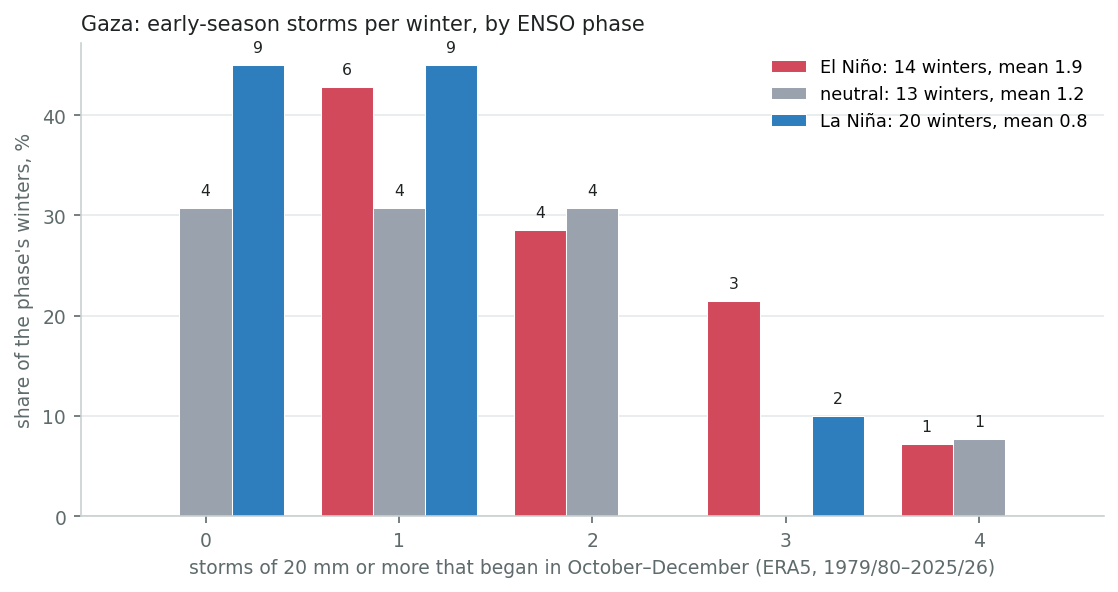
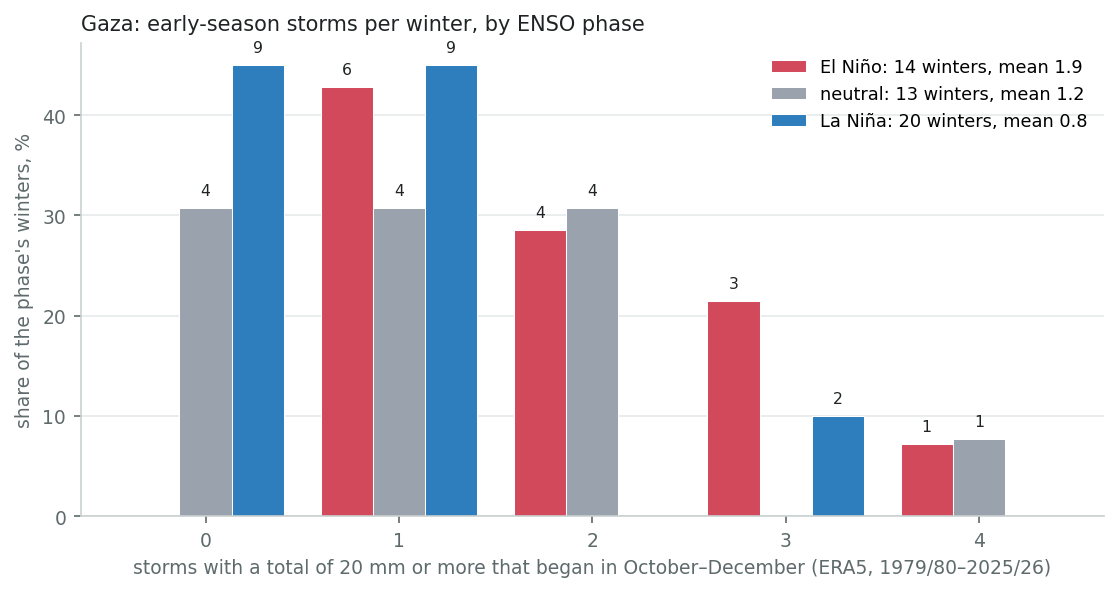
Early-season storms: fixes from review
- the IMERG check is made at the storm size that matches ERA5's 20 mm; for Gaza it shows no gap,
  and the page says so
- the lead says the extra storms come early (the January-April counts do not differ) rather than
  that this is the clearest signal; 'proportionally smaller' over the whole winter
- a visible paragraph on how far to trust it: chosen after about a hundred comparisons, wider
  before 1998 than since
- the pre-1979 comparison no longer counts a 1949/50 season that has no autumn in the record;
  a winter without a Niño3.4 value now stops the build
- the temperature sentence says warmest third of 1993-2016 winters and links both charts

Changed region(s): [[0.1216, 0.9426, 0.9428, 0.973]]

diff --git a/docs/enso/gaza-west-bank/index.html b/docs/enso/gaza-west-bank/index.html
@@ -69,7 +69,7 @@ h3.area{font-size:17px;margin:28px 0 8px;padding:2px 0 2px 10px;border-left:4px 
 <p class="small">Latest Niño3.4 in NOAA PSL's current series: +1.89 °C for August 2026 (three-month mean +1.73).</p><details class="note"><summary>Notes and method</summary><p class="small">The historical analysis on this page uses the series' pinned Niño3.4 (ERSST v5 basis, about 0.2 °C cooler than the current ERSST v6 series), and HadISST only where a record starts before 1950.</p></details>
 <p>NOAA's September outlook gives El Niño 100 per cent odds for every season through January–March 2027. It has the event peaking in October–December, with a 75 per cent chance of exceeding +2.5 °C on its relative Niño3.4 index, which no event since 1950 has done. The coming winter is likely to be a stronger El Niño than any the relationships below were fitted on.</p><details class="note"><summary>More detail</summary><p>The median relative index at the peak is +2.67 °C. It then weakens to about +1.8 °C by January–March. On that same relative index, the October–December and November–January medians are above every El Niño since 1950. All 22 models in the IRI plume stay “very strong” through December–February, and IRI's traditional Niño3.4 (on a different sea-surface temperature dataset) was +2.52 °C in August and about +3.0 °C in mid-September; the highest month in the series this page uses is +2.72 °C (November 2015). A positive Indian Ocean Dipole is developing and is expected to fade by early 2027.</p></details>
 <p>The rainfall forecasts agree on a shape, not only a sign: wet odds for October–December, weaker for November–January, and no wet signal for December–February, where NMME leans dry (40–60 per cent). That is the part of the season the El Niño signal has historically favoured (section 2), and the part where SEAS5 has skill. The forecasts also agree the winter will be warm, which makes snow on the West Bank hills less likely but does not remove cold nights.</p><details class="note"><summary>More detail</summary><p>In Gaza, the newborn hypothermia deaths of December 2024 happened on nights of about 9 °C. SEAS5 and the C3S multi-model mean lean towards a negative North Atlantic Oscillation in late winter. Most Levant studies find that pattern is not a wet one for Israel and the Occupied Palestinian Territory (Nissen et al. 2010; Sandler et al. 2024), and the forecast pressure anomaly over the Levant is near zero.</p></details>
-<p>ECMWF's October forecast (SEAS5, published on 5 October) is the first of the October issuances. It keeps the wet start: October–December is at about a 9-year wet return period over both Gaza and the West Bank, with high skill. Like for like, that is a little wetter than a month ago for Gaza (about 7 years) and less extreme for the West Bank (23 years). The rest of the winter, slightly dry or near normal in the September issuance, is now slightly wet, and February–April is wetter again; skill is moderate for November–January and December–February and low after. It also keeps the warm signal: ECMWF's charts give a 70–100 per cent chance that November–January and December–February are warmer than normal over the eastern Mediterranean (<a href="https://charts.ecmwf.int/products/seasonal_system5_standard_2mtm?area=EURO&amp;base_time=202610010000&amp;stats=terc-3&amp;valid_time=202611010000">ECMWF</a>). The other centres' October forecasts are not yet out, so the table below is still the September one, including its ECMWF row.</p>
+<p>ECMWF's October forecast (SEAS5, published on 5 October) is the first of the October issuances. It keeps the wet start: October–December is at about a 9-year wet return period over both Gaza and the West Bank, with high skill. Like for like, that is a little wetter than a month ago for Gaza (about 7 years) and less extreme for the West Bank (23 years). The rest of the winter, slightly dry or near normal in the September issuance, is now slightly wet, and February–April is wetter again; skill is moderate for November–January and December–February and low after. It also keeps the warm signal: ECMWF's charts give a 70–100 per cent chance that <a href="https://charts.ecmwf.int/products/seasonal_system5_standard_2mtm?area=EURO&amp;base_time=202610010000&amp;stats=terc-3&amp;valid_time=202611010000">November–January</a> and <a href="https://charts.ecmwf.int/products/seasonal_system5_standard_2mtm?area=EURO&amp;base_time=202610010000&amp;stats=terc-3&amp;valid_time=202612010000">December–February</a> fall in the warmest third of 1993–2016 winters over the eastern Mediterranean; part of that is the warming since those years. The other centres' October forecasts are not yet out, so the table below is still the September one, including its ECMWF row.</p>
 
 <div style="overflow-x:auto"><table><thead><tr><th>Forecast</th><th>Issued</th><th>Oct–Dec</th><th>Nov–Jan</th><th>Dec–Feb</th><th>Temperature</th></tr></thead><tbody>
 <tr><td><a href="https://charts.ecmwf.int/products/c3s_seasonal_spatial_mm_rain_3m?area=area11&amp;base_time=202609010000&amp;type=tsum&amp;valid_time=202610010000">C3S multi-system</a> (9 models)</td><td style="white-space:nowrap">Sep 2026</td><td>wet 50–60%</td><td>wet 40–50%</td><td>no signal</td><td>warm 60–100%</td></tr>
@@ -417,10 +417,11 @@ h3.area{font-size:17px;margin:28px 0 8px;padding:2px 0 2px 10px;border-left:4px 
 <h4 id="gaza-range-how-many-storms-a-winter-brings">How many storms a winter brings<a class="anchor" href="#gaza-range-how-many-storms-a-winter-brings" aria-hidden="true" tabindex="-1"></a></h4>
 <p>Over the 28 winters of IMERG (1998/99–2025/26), a Gaza winter brought on average 6 storms whose wettest day reached 10 mm (in most winters 4–8), 3 that reached 20 mm (1–4), and a storm of 50 mm or more, like Byron, in 50 per cent of winters. El Niño winters brought slightly more of the smaller storms (7 of 10 mm or more, against 5 in La Niña winters) but not more of the largest: 4 of 8 El Niño winters had a storm of 50 mm or more, against 6 of 14 La Niña winters. Last winter, with 7, 4 and 1, was among the more active.</p>
 <figure><img src="gaza/storm_tiers.png" alt="Rain storms per winter by size"><figcaption>A storm is a run of rainy days (1 mm or more), merged across lulls of up to two dry days, sized by its wettest day over Gaza (IMERG, area-weighted). <details class="note"><summary>More about this figure</summary><span>Byron, 8–17 December 2025, counts as one storm (rain from 8 December, the storm proper from 10 December). ERA5 is not used for the largest storms: its 25 km cells smooth them so much that it gives Byron a wettest day of 18 mm, which would not place it among the record's 14 largest storms.</span></details></figcaption></figure>
-<p>The clearest El Niño signal in the storm record is early in the season. In ERA5 since 1979/80, El Niño winters have brought 1–4 storms with a total of 20 mm or more before January (1.9 on average), against 0–4 in neutral winters (1.2) and 0–3 in La Niña winters (0.8): about twice as many as in the other winters (p &lt; 0.01). Every one of the 14 El Niño winters had at least one; 13 of the other 33 had none. IMERG's shorter record points the same way (2.5 against 1.6, p = 0.09). These are past ranges, not a forecast.</p>
+<p>El Niño's extra storms come early in the season. In ERA5 since 1979/80, El Niño winters have brought 1–4 storms with a total of 20 mm or more before January (1.9 on average), against 0–4 in neutral winters (1.2) and 0–3 in La Niña winters (0.8): about twice as many as in the other winters. From January to April the phases do not differ (2.9 against 2.4). Every one of the 14 El Niño winters had at least one before January; 13 of the other 33 had none.</p>
+<p><strong>How far to trust it.</strong> The window and the threshold were chosen after about a hundred combinations were compared, so the p &lt; 0.01 of this one overstates the evidence. The gap is wider before 1998 (2.7 against 1.0) than since (1.4 against 0.9, within chance on its own, p = 0.10). IMERG's 28 winters, at the matched size of about 35 mm, show no gap (1.1 against 1.0). These are past ranges, not a forecast.</p>
 <figure><img src="gaza/storms_early.png" alt="Winters by number of early-season storms, by ENSO phase"><figcaption>Winters by the number of storms that began in October–December with a total of 20 mm or more over Gaza (ERA5, 1979/80–2025/26), as a share of each phase's winters; the number of winters is on each bar.</figcaption></figure>
-<p class="small">ERA5 averages rain over 25 km cells: 20 mm there is about 35 mm in IMERG's terms.</p><details class="note"><summary>Notes and method</summary><p class="small">The window and the threshold were chosen after comparing several: the gap is there at every total tried from 10 to 50 mm (p from 0.001 to 0.031) and in both halves of the record (1979/80–1997/98: 2.7 against 1.0; 1998/99–2025/26: 1.4 against 0.9). Before 1979/80 there was none (1.3 against 1.2 from 1949/50), like the rest of the El Niño link (section 2).</p></details>
-<p>Over the whole winter the gap is smaller. El Niño winters have brought 2–7 storms of 25 mm or more (4.6 on average, IMERG), against 2–6 in neutral winters (4.5) and 1–5 in La Niña winters (3.3). On IMERG's eight El Niño winters the difference from the other 20 is within chance (p = 0.17); in ERA5 since 1979/80, with 14 El Niño winters and thresholds matched to IMERG's, the gap is 1.6 storms a winter and is unlikely to be chance (p &lt; 0.01). The bigger storms do not follow the phase: 50 mm or more came 0–2 times in an El Niño winter and 0–3 in the others, and a storm of 100 mm or more came in 3 of 8 El Niño winters and 6 of 20 others. These are past ranges, not a forecast.</p>
+<p class="small">ERA5 averages rain over 25 km cells: 20 mm there is about 35 mm in IMERG's terms.</p><details class="note"><summary>Notes and method</summary><p class="small">At the other totals tried from 10 to 50 mm the full-record gap has p from 0.001 to 0.031. IMERG at 20 mm, a smaller class of storm: 2.5 against 1.6 (p = 0.09). Before 1979/80 there was no gap (1.3 against 1.3 from 1950/51), like the rest of the El Niño link (section 2).</p></details>
+<p>Over the whole winter the difference is proportionally smaller. El Niño winters have brought 2–7 storms of 25 mm or more (4.6 on average, IMERG), against 2–6 in neutral winters (4.5) and 1–5 in La Niña winters (3.3). On IMERG's eight El Niño winters the difference from the other 20 is within chance (p = 0.17); in ERA5 since 1979/80, with 14 El Niño winters and thresholds matched to IMERG's, the gap is 1.6 storms a winter and is unlikely to be chance (p &lt; 0.01). The bigger storms do not follow the phase: 50 mm or more came 0–2 times in an El Niño winter and 0–3 in the others, and a storm of 100 mm or more came in 3 of 8 El Niño winters and 6 of 20 others. These are past ranges, not a forecast.</p>
 <div class="tscroll"><table><thead><tr><th>Storms per winter with a total of</th><th class="num">El Niño<br><span class="small">8 winters</span></th><th class="num">Neutral<br><span class="small">6 winters</span></th><th class="num">La Niña<br><span class="small">14 winters</span></th><th class="num">El Niño against the rest<br><span class="small">IMERG · ERA5</span></th></tr></thead><tbody>
 <tr><td>25 mm or more</td><td class="num">2–7 <span class="small">(mean 4.6)</span></td><td class="num">2–6 <span class="small">(mean 4.5)</span></td><td class="num">1–5 <span class="small">(mean 3.3)</span></td><td class="num">p = 0.17 · p &lt; 0.01</td></tr>
 <tr><td>50 mm or more</td><td class="num">0–2 <span class="small">(mean 1.4)</span></td><td class="num">1–3 <span class="small">(mean 2.2)</span></td><td class="num">0–3 <span class="small">(mean 1.1)</span></td><td class="num">p = 0.96 · p = 0.15</td></tr>
@@ -512,7 +513,7 @@ h3.area{font-size:17px;margin:28px 0 8px;padding:2px 0 2px 10px;border-left:4px 
 <tr><td>50 mm or more</td><td class="num">9</td><td class="num">3</td><td class="num" style="white-space:nowrap">800–21,000 <span class="small">(2)</span></td><td class="num">1</td><td class="num">1</td><td class="num" style="white-space:nowrap">235,000 <span class="small">(1)</span></td></tr>
 </tbody></table></div>
 <p class="small">Storms over Gaza in IMERG, as defined above.</p><details class="note"><summary>Notes and method</summary><p class="small">“With a reported impact”: any entry in the event catalogue, with or without a count, overlaps the storm (from the day before the entry starts to the day it ends). “People counted”: the range across events with a dated count, sized by the wettest day in the event's own dates, with the number of counts in brackets. Counts of assistance delivered, with no rain date, are left out. The event of 12–16 January 2026 (19,200 people) is not in the size tiers above: IMERG has 1.5 mm on its wettest day and ERA5 12 mm, so IMERG missed most of its rain. The one count of 10–20 mm before October 2023 is from January 2020; its date is approximate and its wettest day, at 20 mm, sits on the boundary.</p></details>
-<figure><img src="gaza/event_hazards.png" alt="People counted per event against ERA5 rain over the event's dates"><figcaption>Counts: OCHA, UNRWA and UNICEF reports before October 2023; since, counts published by OCHA, mostly from the Site Management Cluster and the Shelter Cluster. <details class="note"><summary>More about this figure</summary><span>Each dot is one event with a dated count, against ERA5 rain over Gaza from the day before the event to its last day; faded dots are events after December. Top: storms of that size before January in El Niño and other winters, a past range and not a forecast. ERA5 averages rain over 25 km cells and flattens the largest storms; the table below gives IMERG beside it.</span></details></figcaption></figure>
+<figure><img src="gaza/event_hazards.png" alt="People counted per event against ERA5 rain over the event's dates"><figcaption>Counts: OCHA, UNRWA and UNICEF reports before October 2023; since, counts published by OCHA, mostly from the Site Management Cluster and the Shelter Cluster. <details class="note"><summary>More about this figure</summary><span>Each dot is one event with a dated count, against ERA5 rain over Gaza from the day before the event to its last day; faded dots are events after December. Top: storms of that size before January in El Niño and other winters, a past range and not a forecast. ERA5 averages rain over 25 km cells: it flattens the largest storms and can differ severalfold from IMERG on a single storm; the table below gives both.</span></details></figcaption></figure>
 <div style="overflow-x:auto"><table><thead><tr><th>Dates</th><th>Hazard</th><th class="num">Rain over the event<br><span class="small">IMERG · ERA5</span></th><th class="num">People counted</th><th>What the count is</th><th>Source</th></tr></thead><tbody>
 <tr><td style="white-space:nowrap">18–19 Jan 2010</td><td>rain</td><td class="num" style="white-space:nowrap">114 · 32 mm</td><td class="num" style="white-space:nowrap">800</td><td class="small">residents evacuated in the Wadi Gaza flood</td><td class="small" style="white-space:nowrap"><a href="https://www.ochaopt.org/sites/default/files/ocha_opt_the_humanitarian_monitor_2010_01_31_english.pdf">OCHA Humanitarian Monitor, Jan 2010</a></td></tr>
 <tr><td style="white-space:nowrap">7–10 Jan 2013</td><td>rain, wind</td><td class="num" style="white-space:nowrap">62 · 55 mm</td><td class="num" style="white-space:nowrap">about 110</td><td class="small">20 families temporarily displaced</td><td class="small" style="white-space:nowrap"><a href="https://www.un.org/unispal/document/auto-insert-194567/">OCHA SitRep, 16 Jan 2013</a></td></tr>
@@ -555,10 +556,11 @@ h3.area{font-size:17px;margin:28px 0 8px;padding:2px 0 2px 10px;border-left:4px 
 <h4 id="west-bank-range-how-many-storms-a-winter-brings">How many storms a winter brings<a class="anchor" href="#west-bank-range-how-many-storms-a-winter-brings" aria-hidden="true" tabindex="-1"></a></h4>
 <p>Over the 28 winters of IMERG (1998/99–2025/26), a West Bank winter brought on average 6 storms whose wettest day reached 10 mm (in most winters 4–8), 3 that reached 20 mm (2–5), and a storm of 50 mm or more in 29 per cent of winters. El Niño winters brought slightly more of the smaller storms (7 of 10 mm or more, against 6 in La Niña winters) but not more of the largest: 1 of 8 El Niño winters had a storm of 50 mm or more, against 5 of 14 La Niña winters. Last winter, with 8, 7 and 2, was among the more active.</p>
 <figure><img src="west-bank/storm_tiers.png" alt="Rain storms per winter by size"><figcaption>A storm is a run of rainy days (1 mm or more), merged across lulls of up to two dry days, sized by its wettest day over the West Bank (IMERG, area-weighted). </figcaption></figure>
-<p>The clearest El Niño signal in the storm record is early in the season. In ERA5 since 1979/80, El Niño winters have brought 2–4 storms with a total of 20 mm or more before January (2.8 on average), against 0–5 in neutral winters (2.0) and 0–3 in La Niña winters (1.4): 1.7 times as many as in the other winters (p &lt; 0.01). Every one of the 14 El Niño winters had at least two; 15 of the other 33 had fewer. IMERG's shorter record points the same way (3.2 against 2.1, p = 0.02). These are past ranges, not a forecast.</p>
+<p>El Niño's extra storms come early in the season. In ERA5 since 1979/80, El Niño winters have brought 2–4 storms with a total of 20 mm or more before January (2.8 on average), against 0–5 in neutral winters (2.0) and 0–3 in La Niña winters (1.4): 1.7 times as many as in the other winters. From January to April the phases do not differ (3.6 against 3.2). Every one of the 14 El Niño winters had at least two before January; 15 of the other 33 had fewer.</p>
+<p><strong>How far to trust it.</strong> The window and the threshold were chosen after about a hundred combinations were compared, so the p &lt; 0.01 of this one overstates the evidence. The gap is wider before 1998 (3.2 against 1.8) than since (2.5 against 1.6, within chance on its own, p = 0.06). IMERG's 28 winters, at the matched size of about 30 mm, point the same way (2.4 against 1.6, p = 0.03). These are past ranges, not a forecast.</p>
 <figure><img src="west-bank/storms_early.png" alt="Winters by number of early-season storms, by ENSO phase"><figcaption>Winters by the number of storms that began in October–December with a total of 20 mm or more over the West Bank (ERA5, 1979/80–2025/26), as a share of each phase's winters; the number of winters is on each bar.</figcaption></figure>
-<p class="small">ERA5 averages rain over 25 km cells: 20 mm there is about 30 mm in IMERG's terms.</p><details class="note"><summary>Notes and method</summary><p class="small">The window and the threshold were chosen after comparing several: the gap is there at every total tried from 10 to 50 mm (p from 0.003 to 0.007) and in both halves of the record (1979/80–1997/98: 3.2 against 1.8; 1998/99–2025/26: 2.5 against 1.6). Before 1979/80 there was none (1.7 against 1.7 from 1949/50), like the rest of the El Niño link (section 2).</p></details>
-<p>Over the whole winter the gap is smaller. El Niño winters have brought 3–6 storms of 25 mm or more (5.5 on average, IMERG), against 2–6 in neutral winters (4.2) and 2–8 in La Niña winters (4.6). On IMERG's eight El Niño winters the difference from the other 20 is suggestive, with three sizes tested (p = 0.03); in ERA5 since 1979/80, with 14 El Niño winters and thresholds matched to IMERG's, the gap is 1.4 storms a winter and is suggestive, with three sizes tested (p = 0.04). The bigger storms do not follow the phase: 50 mm or more came 1–4 times in an El Niño winter and 1–6 in the others, and a storm of 100 mm or more came in 5 of 8 El Niño winters and 10 of 20 others. These are past ranges, not a forecast.</p>
+<p class="small">ERA5 averages rain over 25 km cells: 20 mm there is about 30 mm in IMERG's terms.</p><details class="note"><summary>Notes and method</summary><p class="small">At the other totals tried from 10 to 50 mm the full-record gap has p from 0.003 to 0.007. IMERG at 20 mm, a smaller class of storm: 3.2 against 2.1 (p = 0.02). Before 1979/80 there was no gap (1.7 against 1.7 from 1950/51), like the rest of the El Niño link (section 2).</p></details>
+<p>Over the whole winter the difference is proportionally smaller. El Niño winters have brought 3–6 storms of 25 mm or more (5.5 on average, IMERG), against 2–6 in neutral winters (4.2) and 2–8 in La Niña winters (4.6). On IMERG's eight El Niño winters the difference from the other 20 is suggestive, with three sizes tested (p = 0.03); in ERA5 since 1979/80, with 14 El Niño winters and thresholds matched to IMERG's, the gap is 1.4 storms a winter and is suggestive, with three sizes tested (p = 0.04). The bigger storms do not follow the phase: 50 mm or more came 1–4 times in an El Niño winter and 1–6 in the others, and a storm of 100 mm or more came in 5 of 8 El Niño winters and 10 of 20 others. These are past ranges, not a forecast.</p>
 <div class="tscroll"><table><thead><tr><th>Storms per winter with a total of</th><th class="num">El Niño<br><span class="small">8 winters</span></th><th class="num">Neutral<br><span class="small">6 winters</span></th><th class="num">La Niña<br><span class="small">14 winters</span></th><th class="num">El Niño against the rest<br><span class="small">IMERG · ERA5</span></th></tr></thead><tbody>
 <tr><td>25 mm or more</td><td class="num">3–6 <span class="small">(mean 5.5)</span></td><td class="num">2–6 <span class="small">(mean 4.2)</span></td><td class="num">2–8 <span class="small">(mean 4.6)</span></td><td class="num">p = 0.03 · p = 0.04</td></tr>
 <tr><td>50 mm or more</td><td class="num">1–4 <span class="small">(mean 2.8)</span></td><td class="num">1–5 <span class="small">(mean 3.0)</span></td><td class="num">1–6 <span class="small">(mean 2.1)</span></td><td class="num">p = 0.38 · p = 0.16</td></tr>

diff --git a/levant_deep_dive.py b/levant_deep_dive.py
@@ -987,22 +987,28 @@ def storm_stats(imerg: pd.Series, era5: pd.Series, djf: pd.Series) -> dict:
                 by_total.append(dict(src=name, tier=t, group=label, n=int(m.sum()), lo=int(v.min()), hi=int(v.max()), mean=float(v.mean()),
                                      med=float(v.median()), any=int((v >= 1).sum()), p=p_, first=int(c.index.min())))
     # early-season storms by phase: ERA5 since the link switched on (the longer record), IMERG as the check
-    def early_counts(e, lo, hi, thr=EARLY_TOTAL):
-        x = e[pd.DatetimeIndex(e.start).month.isin(EARLY_MONTHS) & (e.total >= thr)]
+    def early_counts(e, lo, hi, thr=EARLY_TOTAL, months=EARLY_MONTHS):
+        x = e[pd.DatetimeIndex(e.start).month.isin(months) & (e.total >= thr)]
         return x.groupby("sy").size().reindex(range(lo, hi + 1), fill_value=0)
 
     def by_phase(c):
+        assert djf.reindex(c.index).notna().all(), "a winter without a Niño3.4 value would pass as neutral"
         ph = pd.Series(phase_of(djf.reindex(c.index)), index=c.index)
         g = {k: c[ph == k] for k in ("El Niño", "Neutral", "La Niña")} | {"other": c[ph != "El Niño"]}
         return dict(p=float(stats.mannwhitneyu(g["El Niño"], g["other"], alternative="two-sided").pvalue),
                     **{k: dict(n=len(v), lo=int(v.min()), hi=int(v.max()), mean=float(v.mean()),
                                dist={int(a): int(b) for a, b in v.value_counts().sort_index().items()}) for k, v in g.items()})
     a_, b_ = (x[pd.DatetimeIndex(x.start).month.isin(EARLY_MONTHS) & (x.sy >= 1998) & (x.sy <= 2025)] for x in (ee, ei))
+    n_match = int((a_.total >= EARLY_TOTAL).sum())
+    assert 0 < n_match <= len(b_), "no IMERG total gives the same number of early storms as ERA5"
+    eq = float(np.sort(b_.total.values)[::-1][n_match - 1])                # the IMERG total with as many early storms as ERA5 at its threshold
+    b0 = max(int(ee.sy.min()) + 1, int(djf.dropna().index.min()))         # the first season with an October in the record and a phase
+    late = [m for m in WET if m not in EARLY_MONTHS]
     early = dict(thr=EARLY_TOTAL, lo=SPLIT, hi=2025, era5=by_phase(early_counts(ee, SPLIT, 2025)), imerg=by_phase(early_counts(ei, 1998, 2025)),
+                 imerg_matched=by_phase(early_counts(ei, 1998, 2025, eq)), late=by_phase(early_counts(ee, SPLIT, 2025, months=late)),
                  halves=[(lo, hi, by_phase(early_counts(ee, lo, hi))) for lo, hi in ((SPLIT, 1997), (1998, 2025))],
-                 before=(int(ee.sy.min()), by_phase(early_counts(ee, int(ee.sy.min()), SPLIT - 1))),
-                 p_other={t: by_phase(early_counts(ee, SPLIT, 2025, t))["p"] for t in (10, 25, 30, 50)},
-                 imerg_equiv=float(np.sort(b_.total.values)[::-1][int((a_.total >= EARLY_TOTAL).sum()) - 1]))
+                 before=(b0, by_phase(early_counts(ee, b0, SPLIT - 1))),
+                 p_other={t: by_phase(early_counts(ee, SPLIT, 2025, t))["p"] for t in (10, 25, 30, 50)}, imerg_equiv=eq)
     return dict(ei=ei, ee=ee, thr_e=thr_e, ci=ci, ce=ce, rows=rows, first=first, by_total=by_total, thr_t=thr_t, cti=cti, early=early)
 
 
@@ -1666,7 +1672,7 @@ def fig_event_hazards(wi: dict, st: dict, out: Path) -> None:
     ax.vlines(thr, 10, 6e6, color="#6f7b7c", lw=1.3, zorder=1)
     ax.axhspan(6e5, 6e7, color="#BFD9EE", alpha=0.45, lw=0, zorder=0); ax.axhline(6e5, color="#6f7b7c", lw=0.8, zorder=1)
     xl = x0 + 0.012 * (x1 - x0); W = x1 - x0
-    ax.text(xl, 3.4e7, f"Storms of {thr} mm or more before January, per winter (ERA5, {_yr(ea['lo'])}–{_yr(ea['hi'])})", ha="left", va="center",
+    ax.text(xl, 3.4e7, f"Storms with a total of {thr} mm or more before January, per winter (ERA5, {_yr(ea['lo'])}–{_yr(ea['hi'])})", ha="left", va="center",
             fontsize=8, color=SRC_COL["GPCC"])
     ax.text(xl, 1.9e7, "every rain spell of that size that began in October–December, damaging or not; a past range, not a forecast", ha="left",
             va="center", fontsize=6.8, color=C_MUTED)
@@ -1769,7 +1775,8 @@ def fig_storms_early(st: dict, out: Path) -> None:
             if d.get(k, 0):
                 ax.text(x_, h_ + 1.0, str(d[k]), ha="center", va="bottom", fontsize=7.5, color=C_TEXT)
     ax.set_xticks(range(kmax + 1), [str(k) for k in range(kmax + 1)])
-    ax.set_xlabel(f"storms of {ea['thr']} mm or more that began in October–December (ERA5, {_yr(ea['lo'])}–{_yr(ea['hi'])})", fontsize=9, color=C_MUTED)
+    ax.set_xlabel(f"storms with a total of {ea['thr']} mm or more that began in October–December (ERA5, {_yr(ea['lo'])}–{_yr(ea['hi'])})", fontsize=9,
+                  color=C_MUTED)
     ax.set_ylabel("share of the phase's winters, %", fontsize=9, color=C_MUTED)
     ax.set_title(f"{A.name}: early-season storms per winter, by ENSO phase", fontsize=10, color=C_TEXT, loc="left")
     ax.legend(frameon=False, fontsize=8.5, loc="upper right")
@@ -2059,21 +2066,29 @@ def render_storm_totals(st: dict) -> str:
     xe, xn, xl, xo = E["El Niño"], E["Neutral"], E["La Niña"], E["other"]
     fewer = sum(v for k, v in xo["dist"].items() if k < xe["lo"]); ratio = xe["mean"] / xo["mean"]
     h1, h2 = ea["halves"]; b0, bf = ea["before"]; ps = list(ea["p_other"].values()) + [E["p"]]
-    o = [f'<p>The clearest El Niño signal in the storm record is early in the season. In ERA5 since {_yr(ea["lo"])}, El Niño winters have brought {rg(xe)} '
-         f'storms with a total of {ea["thr"]} mm or more before January ({xe["mean"]:.1f} on average), against {rg(xn)} in neutral winters ({xn["mean"]:.1f}) '
-         f'and {rg(xl)} in La Niña winters ({xl["mean"]:.1f}): ' + ("about twice" if 1.85 <= ratio <= 2.2 else f"{ratio:.1f} times")
-         + f' as many as in the other winters ({_pv(E["p"])}). Every one of the {xe["n"]} El Niño winters had at least {_nword(xe["lo"])}; {fewer} of the '
-         f'other {xo["n"]} had {"none" if xe["lo"] == 1 else "fewer"}. IMERG\'s shorter record points the same way ({I["El Niño"]["mean"]:.1f} against '
-         f'{I["other"]["mean"]:.1f}, {_pv(I["p"])}). These are past ranges, not a forecast.</p>',
+    M, Lt = ea["imerg_matched"], ea["late"]
+    eqmm = _round_to(ea["imerg_equiv"], 5)
+    same = M["El Niño"]["mean"] / max(M["other"]["mean"], 1e-9) >= 1.2
+    o = [f'<p>El Niño\'s extra storms come early in the season. In ERA5 since {_yr(ea["lo"])}, El Niño winters have brought {rg(xe)} storms with a total '
+         f'of {ea["thr"]} mm or more before January ({xe["mean"]:.1f} on average), against {rg(xn)} in neutral winters ({xn["mean"]:.1f}) and {rg(xl)} in '
+         f'La Niña winters ({xl["mean"]:.1f}): ' + ("about twice" if 1.85 <= ratio <= 2.2 else f"{ratio:.1f} times") + ' as many as in the other winters. '
+         f'From January to April the phases do not differ ({Lt["El Niño"]["mean"]:.1f} against {Lt["other"]["mean"]:.1f}). Every one of the {xe["n"]} El '
+         f'Niño winters had at least {_nword(xe["lo"])} before January; {fewer} of the other {xo["n"]} had {"none" if xe["lo"] == 1 else "fewer"}.</p>',
+         f'<p><strong>How far to trust it.</strong> The window and the threshold were chosen after about a hundred combinations were compared, so the '
+         f'{_pv(E["p"])} of this one overstates the evidence. The gap is wider before 1998 ({h1[2]["El Niño"]["mean"]:.1f} against '
+         f'{h1[2]["other"]["mean"]:.1f}) than since ({h2[2]["El Niño"]["mean"]:.1f} against {h2[2]["other"]["mean"]:.1f}, '
+         + ("within chance on its own" if h2[2]["p"] >= 0.05 else "still unlikely to be chance") + f', {_pv(h2[2]["p"])}). IMERG\'s {M["El Niño"]["n"] + M["other"]["n"]} winters, '
+         f'at the matched size of about {eqmm} mm, ' + (f'point the same way ({M["El Niño"]["mean"]:.1f} against {M["other"]["mean"]:.1f}, {_pv(M["p"])})'
+                                                         if same else f'show no gap ({M["El Niño"]["mean"]:.1f} against {M["other"]["mean"]:.1f})')
+         + '. These are past ranges, not a forecast.</p>',
          f'<figure><img src="storms_early.png" alt="Winters by number of early-season storms, by ENSO phase"><figcaption>Winters by the number of storms that '
          f'began in October–December with a total of {ea["thr"]} mm or more over {A.ref} (ERA5, {_yr(ea["lo"])}–{_yr(ea["hi"])}), as a share of each '
          'phase\'s winters; the number of winters is on each bar.</figcaption></figure>',
-         f'<p class="small">ERA5 averages rain over 25 km cells: {ea["thr"]} mm there is about {_round_to(ea["imerg_equiv"], 5)} mm in IMERG\'s terms. The window and the '
-         f'threshold were chosen after comparing several: the gap is there at every total tried from 10 to 50 mm (p from {min(ps):.3f} to {max(ps):.3f}) and in '
-         f'both halves of the record ({_yr(h1[0])}–{_yr(h1[1])}: {h1[2]["El Niño"]["mean"]:.1f} against {h1[2]["other"]["mean"]:.1f}; {_yr(h2[0])}–{_yr(h2[1])}: '
-         f'{h2[2]["El Niño"]["mean"]:.1f} against {h2[2]["other"]["mean"]:.1f}). Before {_yr(ea["lo"])} there was none ({bf["El Niño"]["mean"]:.1f} against '
-         f'{bf["other"]["mean"]:.1f} from {_yr(b0)}), like the rest of the El Niño link (section 2).</p>',
-         f'<p>Over the whole winter the gap is smaller. El Niño winters have brought {rg(en)} storms of {t0} mm or more ({en["mean"]:.1f} on average, IMERG), against '
+         f'<p class="small">ERA5 averages rain over 25 km cells: {ea["thr"]} mm there is about {eqmm} mm in IMERG\'s terms. At the other totals tried from 10 '
+         f'to 50 mm the full-record gap has p from {min(ps):.3f} to {max(ps):.3f}. IMERG at {ea["thr"]} mm, a smaller class of storm: '
+         f'{I["El Niño"]["mean"]:.1f} against {I["other"]["mean"]:.1f} ({_pv(I["p"])}). Before {_yr(ea["lo"])} there was no gap ({bf["El Niño"]["mean"]:.1f} '
+         f'against {bf["other"]["mean"]:.1f} from {_yr(b0)}), like the rest of the El Niño link (section 2).</p>',
+         f'<p>Over the whole winter the difference is proportionally smaller. El Niño winters have brought {rg(en)} storms of {t0} mm or more ({en["mean"]:.1f} on average, IMERG), against '
          f'{rg(ne)} in neutral winters ({ne["mean"]:.1f}) and {rg(ln)} in La Niña winters ({ln["mean"]:.1f}). On IMERG\'s {_nword(en["n"])} El Niño '
          f'winters the difference from the other {ot["n"]} {chance(en["p"])} ({_pv(en["p"])}); in ERA5 since {_yr(e_en["first"])}, with {e_en["n"]} El Niño '
          f'winters and thresholds matched to IMERG\'s, ' + (f'the gap is {gap:.1f} storms a winter and' if gap > 0.05 else 'there is no gap, which')
@@ -2217,8 +2232,8 @@ def render_winter_impacts(spec: dict, a: dict) -> str:
     o.append(f'<figure><img src="event_hazards.png" alt="People counted per event against ERA5 rain over the event\'s dates">'
              f'<figcaption>{html.escape(A.event_sources)} Each dot is one event with a dated count, against ERA5 rain over {A.ref} from the day before '
              f'the event to its last day; faded dots are events after December. Top: storms of that size before January in El Niño and other winters, a '
-             f'past range and not a forecast. ERA5 averages rain over 25 km cells and flattens the largest storms; the table below gives IMERG beside '
-             f'it.</figcaption></figure>')
+             f'past range and not a forecast. ERA5 averages rain over 25 km cells: it flattens the largest storms and can differ severalfold from IMERG on '
+             f'a single storm; the table below gives both.</figcaption></figure>')
     o.append('<div style="overflow-x:auto"><table><thead><tr><th>Dates</th><th>Hazard</th><th class="num">Rain over the event<br><span class="small">IMERG · ERA5</span></th>'
              '<th class="num">People counted</th><th>What the count is</th><th>Source</th></tr></thead><tbody>')
     for r in U.itertuples():
